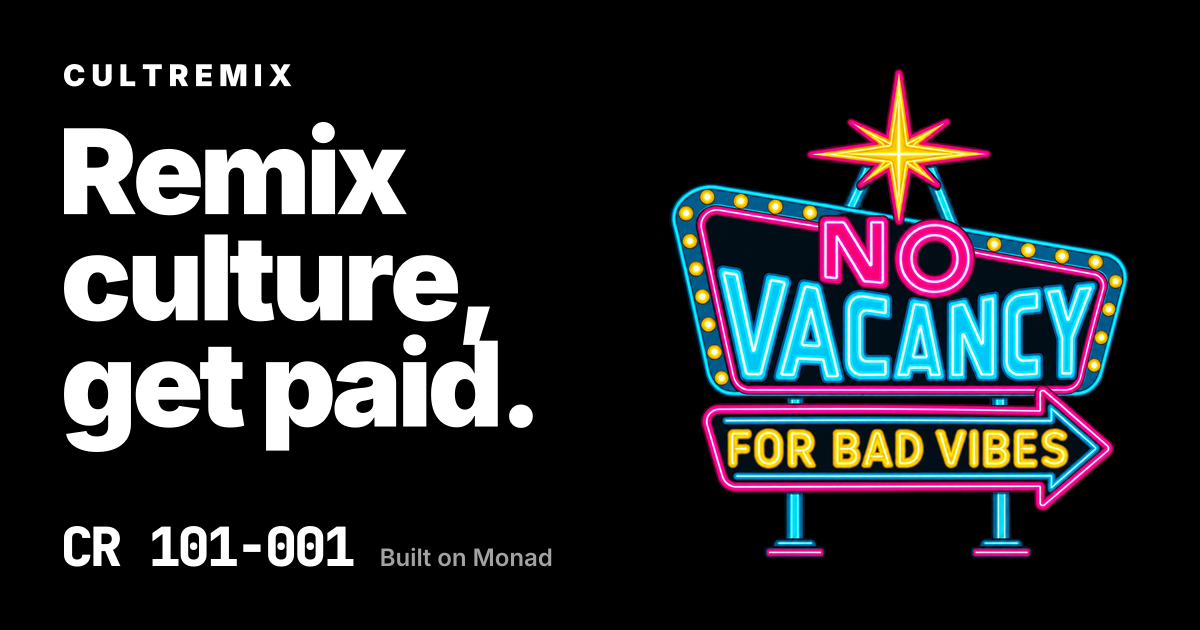
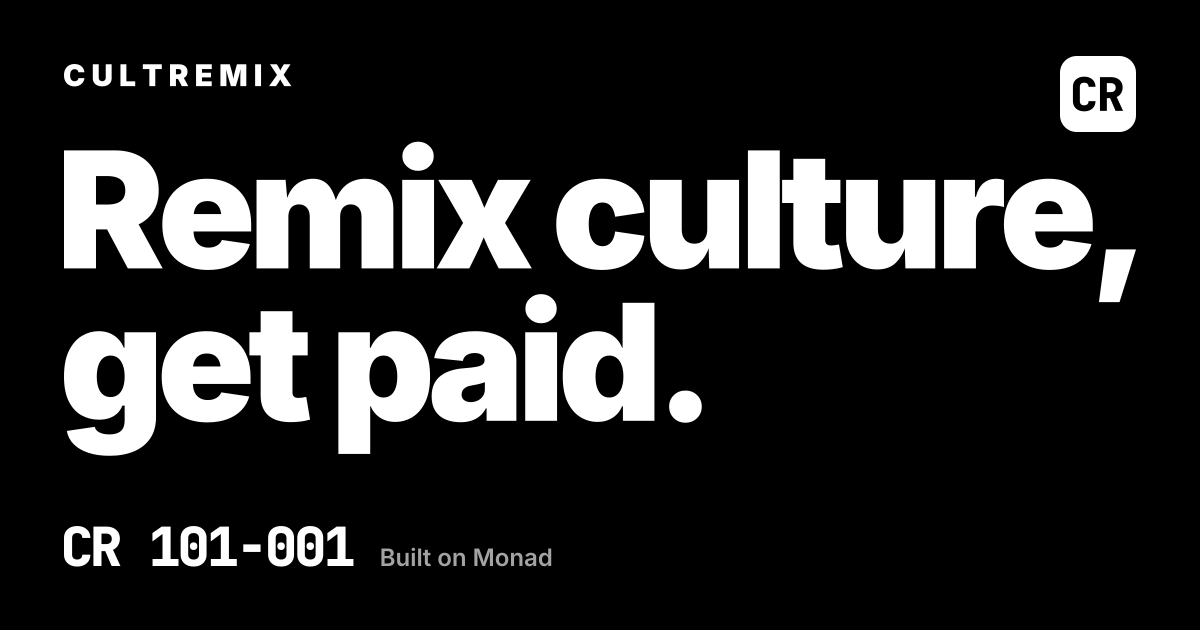
Share image: type only

Changed region(s): [[0.0308, 0.1206, 0.9558, 0.9048], [0.8633, 0.0905, 0.9558, 0.2111]]

diff --git a/src/lib/site.ts b/src/lib/site.ts
@@ -7,6 +7,6 @@ export const SITE_DESCRIPTION =
   "A social creative-commerce platform where culture is designed to be remixed. Publish AI-made works that others remix, with lineage and credit kept.";
 export const SHARE_DESCRIPTION =
   "Creators use AI to publish remixable works that others turn into their own variations, with every creation keeping its lineage and attribution. Finished works become real products, and the people who shaped them share in what they earn. Built on Monad.";
-export const SHARE_IMAGE = `${SITE_URL}/og.png`;
-export const SHARE_IMAGE_ALT =
-  "CultRemix: Remix culture, get paid. A neon NO VACANCY FOR BAD VIBES t-shirt design.";
+// Bump v when og.png changes so link previews drop their cached copy.
+export const SHARE_IMAGE = `${SITE_URL}/og.png?v=2`;
+export const SHARE_IMAGE_ALT = "CultRemix: Remix culture, get paid.";

diff --git a/docs/hackathon/log.md b/docs/hackathon/log.md
@@ -37,3 +37,4 @@ Builder entries (times Pacific). No secrets here; secret values live only in `~/
 - 15:41 After the freeze, at Jon's request: instant sign-in for judges while email is off. With `AUTH_INSTANT_SIGNIN=true`, the server saves each sign-in code on its attempt and `authVerification.instantSignInCode` hands it to the page that started the attempt, which submits it: entering an email signs you in (about 4 s on dev). The owner email (`FIRST_SUPER_ADMIN_EMAIL`) and admin accounts get the code box right away and still read their code from the logs. Verified on dev: new email → onboarding; signed-out remix link → sign in → onboarding with the remix link kept; owner email → code box. Production needs this commit deployed (Convex and Worker) and `AUTH_INSTANT_SIGNIN=true`; setting it to `false` turns it off at once without a deploy.
 - ChatGPT image tool on dev resolves to `gpt-image-2-codex` (driven by `gpt-5.5`), with `size` reported as `auto`, which explains the 1206×1305 outputs. Production uses the gateway models in `docs/setup/image-check.md`.
 - 16:14 New icons and share metadata at Jon's request. Icons: white "CR" in JetBrains Mono ExtraBold on a black rounded square (`favicon.svg`, `favicon.ico` with 16/32/48, PNGs, and full-bleed Apple and Android icons); share image `public/og.png` (1200×630: "Remix culture, get paid.", the NO VACANCY design, CR 101-001, Built on Monad). Title "CultRemix — Remix culture, get paid.", description, Open Graph and Twitter cards, theme color, manifest. Share URLs use `SITE_URL` in `src/lib/site.ts` (the production `workers.dev` address; change it when cultremix.com is live). Built from `.tmp/brand/build.mjs` (local; opentype.js and sharp).
+- 16:20 Share image is now type only ("Remix culture, get paid.", CR 101-001, Built on Monad, the CR icon); the design art is gone at Jon's request. `SHARE_IMAGE` carries `?v=2` so cached link previews refresh.
